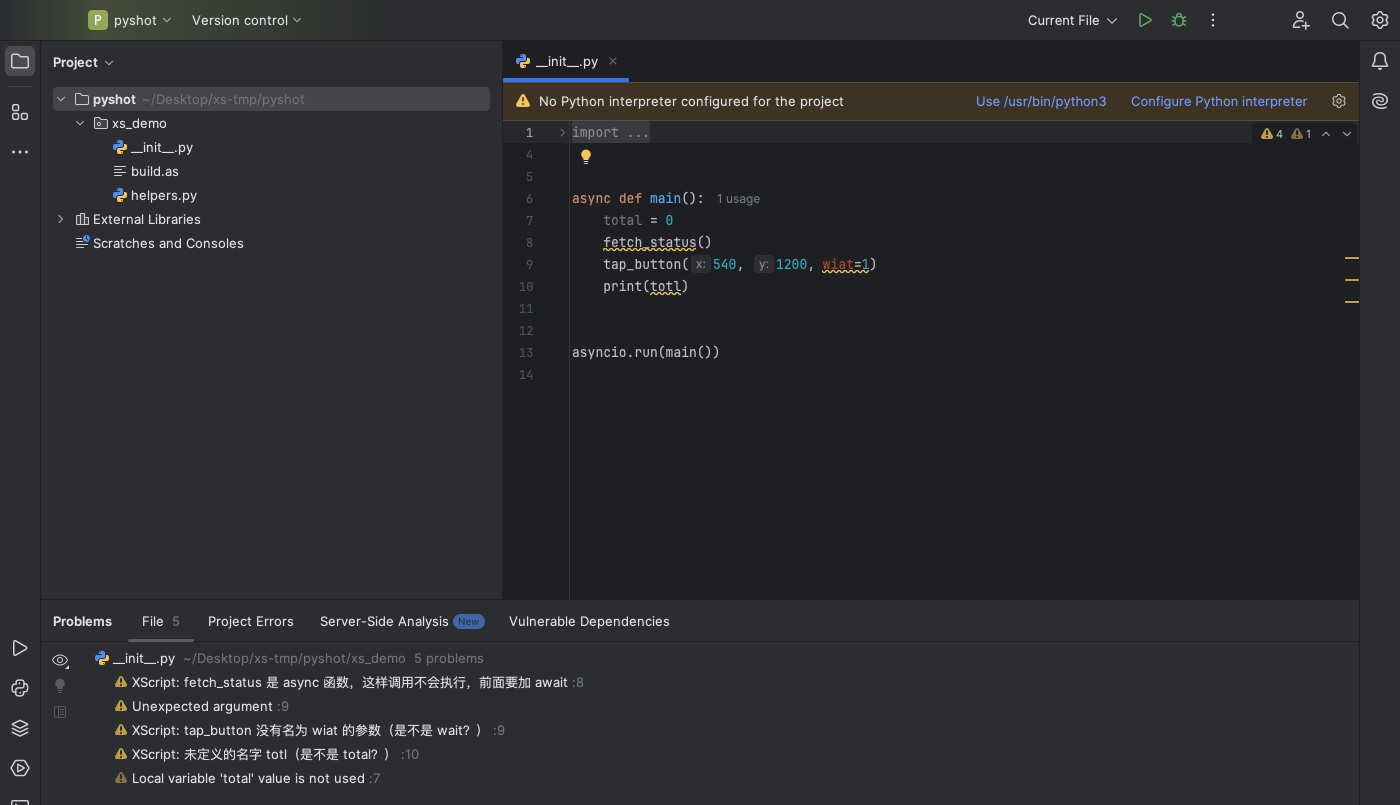
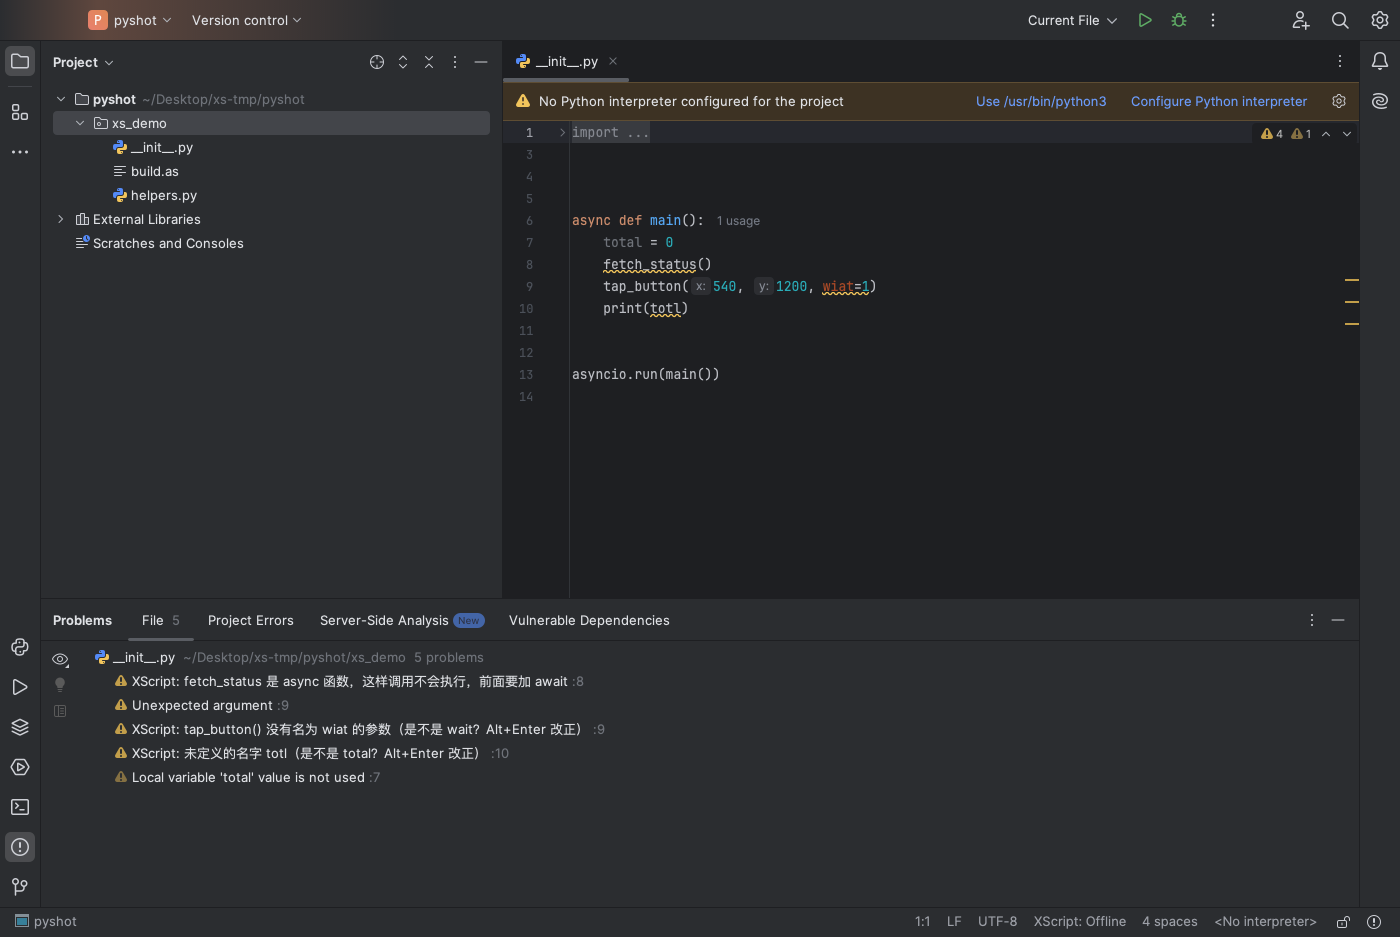
docs(pycharm): document quick fixes and add the lintfix screenshot

diff --git a/ide/pycharm-plugin/src/main/kotlin/com/xscript/pycharm/ScreenshotDemoActivity.kt b/ide/pycharm-plugin/src/main/kotlin/com/xscript/pycharm/ScreenshotDemoActivity.kt
@@ -19,7 +19,8 @@ import java.util.concurrent.TimeUnit
  * never in a normal IDE) it opens the first XScript project's __init__.py and runs Upload and Run (`run`), or opens
  * Settings | Tools | XScript (`settings`), selects the first `_result` line and runs Run Selection on Device (`eval`), or starts
  * Pull Project from Device (`pull`), or runs a device project and opens the Device Projects tab (`projects`), or opens Connect to Device and checks
- * -Dxscript.screenshotConnect (`connect`, `capture`), or just opens __init__.py with the basic checks' warnings (`lint`), so screenshots need no scripted mouse clicks. Does nothing otherwise.
+ * -Dxscript.screenshotConnect (`connect`, `capture`), or just opens __init__.py with the basic checks' warnings (`lint`), or also puts the caret on the first `totl` and opens
+ * Alt+Enter (`lintfix`), so screenshots need no scripted mouse clicks. Does nothing otherwise.
  */
 class ScreenshotDemoActivity : ProjectActivity {
     override suspend fun execute(project: Project) {
@@ -95,10 +96,21 @@ class ScreenshotDemoActivity : ProjectActivity {
                         }, 3, TimeUnit.SECONDS)
                     }
                 }
-                if (mode == "lint") ToolWindowManager.getInstance(project).getToolWindow("Problems View")?.show()
+                if (mode == "lint" || mode == "lintfix") ToolWindowManager.getInstance(project).getToolWindow("Problems View")?.show()
                 if (mode == "run" || mode == "eval") ToolWindowManager.getInstance(project).getToolWindow(XScriptService.TOOL_WINDOW_ID)?.show()
             }, project.disposed)
         }, 12, TimeUnit.SECONDS)
+        // lintfix: the caret on the first misspelled `totl`, then Alt+Enter (the checks have run by now)
+        if (mode == "lintfix") AppExecutorUtil.getAppScheduledExecutorService().schedule({
+            app.invokeLater({
+                val editor = FileEditorManager.getInstance(project).selectedTextEditor ?: return@invokeLater
+                val at = editor.document.text.indexOf("totl")
+                if (at < 0) return@invokeLater
+                editor.caretModel.moveToOffset(at + 1)
+                val psi = com.intellij.psi.PsiDocumentManager.getInstance(project).getPsiFile(editor.document) ?: return@invokeLater
+                com.intellij.codeInsight.intention.impl.ShowIntentionActionsHandler().invoke(project, editor, psi)
+            }, project.disposed)
+        }, 36, TimeUnit.SECONDS)
         // pull: press the project picker's default button so the flow runs to the end (the folder matches the picked name)
         if (mode == "pull") AppExecutorUtil.getAppScheduledExecutorService().schedule({
             app.invokeLater({ shoot(project, "picker"); pressDefaultButton() }, com.intellij.openapi.application.ModalityState.any())
@@ -124,7 +136,7 @@ class ScreenshotDemoActivity : ProjectActivity {
             AppExecutorUtil.getAppScheduledExecutorService().schedule({
                 app.invokeLater({ shoot(project, mode) }, com.intellij.openapi.application.ModalityState.any())
             }, 2, TimeUnit.SECONDS)
-        }, 22, TimeUnit.SECONDS)
+        }, if (mode == "lintfix") 36 else 22, TimeUnit.SECONDS)
     }
 
     /** With -Dxscript.screenshotOut=<dir>: paints the frontmost IDE window (a dialog if one is open) into <dir>/<name>.png. */
@@ -137,6 +149,14 @@ class ScreenshotDemoActivity : ProjectActivity {
         val g = img.createGraphics()
         g.scale(scale, scale)
         window.printAll(g)
+        // popups (the Alt+Enter list) are separate heavyweight windows on top of the frame: paint them in place too
+        for (w in java.awt.Window.getWindows()) {
+            if (w === window || !w.isShowing || w is java.awt.Dialog || w is java.awt.Frame) continue
+            val at = javax.swing.SwingUtilities.convertPoint(w, 0, 0, window)
+            val pg = g.create(at.x, at.y, w.width, w.height)
+            w.printAll(pg)
+            pg.dispose()
+        }
         g.dispose()
         Files.createDirectories(dir)
         javax.imageio.ImageIO.write(img, "png", dir.resolve("$name.png").toFile())
@@ -149,6 +169,6 @@ class ScreenshotDemoActivity : ProjectActivity {
 
     companion object {
         fun mode(): String? = System.getProperty("xscript.screenshotDemo")?.takeIf { it in MODES }
-        private val MODES = setOf("run", "settings", "eval", "pull", "projects", "connect", "capture", "lint")
+        private val MODES = setOf("run", "settings", "eval", "pull", "projects", "connect", "capture", "lint", "lintfix")
     }
 }

diff --git a/ide/pycharm-plugin/README.md b/ide/pycharm-plugin/README.md
@@ -10,7 +10,9 @@
 
 ![Settings → Tools → XScript：设备地址、配对码、运行选中代码超时、「上传时同步删除」和「编辑器里的基本检查」](../../docs/images/pycharm-settings.png)
 
-![基本检查：问题面板里以 XScript: 开头的警告，在 async 函数里直接调用 async 函数、关键字参数 wiat（是不是 wait？）、拼错的 totl（是不是 total？）](../../docs/images/pycharm-checks.png)
+![基本检查：问题面板里以 XScript: 开头的警告，在 async 函数里直接调用 async 函数、关键字参数 wiat（是不是 wait？）、拼错的 totl（是不是 total？Alt+Enter 改正）](../../docs/images/pycharm-checks.png)
+
+![快速修复：光标在 totl 上按 Alt+Enter，第一项是「改为 total」](../../docs/images/pycharm-quickfix.png)
 
 ![选中一行按 Ctrl+Alt+Shift+E：代码和设备返回的结果显示在 XScript 工具窗口](../../docs/images/pycharm-eval.png)
 
@@ -64,7 +66,7 @@ cd ide/pycharm-plugin
 - **预览上传**：Tools → XScript → Preview Upload (Dry Run)，不改动手机，只在 XScript 工具窗口里列出「上传并运行」会新增、重新发送、跳过和删除的文件。有需要上传或删除的内容时，右下角通知里有 **上传并运行** 按钮，直接执行同一次增量上传（删除仍会先弹确认框）。
 - **工程**：当前文件之上、含有 `__init__.py` 或 `build.as` 的最顶层文件夹；文件夹名就是手机上的工程名。上传时跳过隐藏文件、`__pycache__`、`.pyc`、虚拟环境，并遵守 `.vscode/.syncignore`（与 VS Code 扩展同一个文件）。设备上有、本地已删除的文件默认保留；在设置里勾选「上传时同步删除本地已删除的文件」后，每次上传会先列出这些文件，确认后才在设备上删除（被 `.syncignore` 忽略的文件、点开头的文件、`__pycache__` 和工程入口 `__init__.py` 永远不删；删除后变空的文件夹连同其中的 `__pycache__` 一起删除，也在同一个对话框里列出；同 VS Code 的 `xscript.syncDeletes`）。
 - **配对码**：手机默认需要配对码（XScript 首页「开发与连接 → 配对码」）。第一次遇到 401 时插件会弹窗询问，保存在 IDE 的密码库（macOS 钥匙串等），也可以在设置页填写。按设备地址分别保存。
-- **基本检查**：XScript 工程里的 `.py` 文件，用和网页 IDE、VS Code 扩展同一套规则检查（未定义的名字及「是不是 …」、属性不存在、调用参数不对、import 拼错、async / await 用错、重复定义），以 `XScript:` 开头的警告画在编辑器里并列在问题面板。PyCharm 自己已经会把未使用的 import / 变量和执行不到的代码变灰，这几类不重复报；有的问题（例如多余的参数）PyCharm 也会报一条，XScript 的那条多了「是不是 …」提示。规则在 IDE 自带的浏览器（JCEF）里运行，没有 JCEF 时（例如部分远程开发环境）不检查。不想要时在 **Settings → Tools → XScript** 取消「编辑器里的基本检查」。
+- **基本检查**：XScript 工程里的 `.py` 文件，用和网页 IDE、VS Code 扩展同一套规则检查（未定义的名字及「是不是 …」、属性不存在、调用参数不对、import 拼错、async / await 用错、重复定义），以 `XScript:` 开头的警告画在编辑器里并列在问题面板。PyCharm 自己已经会把未使用的 import / 变量和执行不到的代码变灰，这几类不重复报；有的问题（例如多余的参数）PyCharm 也会报一条，XScript 的那条多了「是不是 …」提示。提示里写「Alt+Enter …」的可以按 Alt+Enter 一键修复：改为「是不是 …」的名字、从工程里的模块补 import、补上缺少的参数、跳到被覆盖的重复定义。规则在 IDE 自带的浏览器（JCEF）里运行，没有 JCEF 时（例如部分远程开发环境）不检查。不想要时在 **Settings → Tools → XScript** 取消「编辑器里的基本检查」。
 - **补全**：打开像 XScript 工程的项目时，插件会提示「启用 XScript 补全」。它只是把插件目录里的 `stubs/`（由 `scripts/gen_stubs.py` 生成，与 VS Code 扩展内置的是同一份）加为模块库，不往工程里复制任何文件；关闭时移除这个库。
 
 ## 开发
@@ -77,5 +79,5 @@ cd ide/pycharm-plugin
 ```
 
 - 新建工程模板 `src/main/resources/templates.json` 是生成的：改 `ide/vscode-extension/src/newProject.ts` 后，在 `ide/vscode-extension` 里 `npm run compile && node scripts/export-templates.js`。CI 用 `--check` 检查。
-- 截图：先在 `.intellijPlatform/sandbox/xscript-pycharm/PC-2024.2.6/config_runIde/options/xscript.xml` 里把设备地址设为本机 mock 设备，再 `./gradlew runIde -PrunIdeProject=<演示工程> -PrunIdeHeadlessConsent -PrunIdeScreenshotDemo=run -PrunIdeScreenshotOut=<目录>`（模式还有 `settings`、`eval`、`pull`、`projects`、`connect`、`lint`（只打开 `__init__.py` 和问题面板，看基本检查；演示工程里要有写错的代码）；`connect` 用 `-PrunIdeScreenshotConnect=<地址>` 指定要检查的地址）。这些开关只用于这个一次性的沙盒：跳过用户协议，打开演示工程，执行对应功能（`pull` 会自动按下选择和覆盖对话框的默认按钮；演示工程里要有与设备工程同名的文件夹），约 25 秒后把 IDE 窗口（有对话框时截对话框）存成 `<目录>/<模式>.png`，不需要系统录屏权限。
+- 截图：先在 `.intellijPlatform/sandbox/xscript-pycharm/PC-2024.2.6/config_runIde/options/xscript.xml` 里把设备地址设为本机 mock 设备，再 `./gradlew runIde -PrunIdeProject=<演示工程> -PrunIdeHeadlessConsent -PrunIdeScreenshotDemo=run -PrunIdeScreenshotOut=<目录>`（模式还有 `settings`、`eval`、`pull`、`projects`、`connect`、`lint`（只打开 `__init__.py` 和问题面板，看基本检查；演示工程里要有写错的代码）、`lintfix`（同上，再把光标放到第一个 `totl` 上打开 Alt+Enter 列表，约 40 秒后截图）；`connect` 用 `-PrunIdeScreenshotConnect=<地址>` 指定要检查的地址）。这些开关只用于这个一次性的沙盒：跳过用户协议，打开演示工程，执行对应功能（`pull` 会自动按下选择和覆盖对话框的默认按钮；演示工程里要有与设备工程同名的文件夹），约 25 秒后把 IDE 窗口（有对话框时截对话框）存成 `<目录>/<模式>.png`，不需要系统录屏权限。
 - 本机没有系统 JDK 时可以用 Android Studio 自带的：`JAVA_HOME="/Applications/Android Studio.app/Contents/jbr/Contents/Home"`。

diff --git a/docs/使用手册.md b/docs/使用手册.md
@@ -234,9 +234,11 @@ code --install-extension xscript-vscode-<版本>.vsix   # Cursor 用 cursor --in
 
 习惯 PyCharm（2024.2 及以上）时用插件：从 GitHub Release 下载 `xscript-pycharm-<版本>.zip`，**Settings → Plugins → ⚙ → Install Plugin from Disk…** 安装。菜单 **Tools → XScript** 里有上传并运行（Ctrl+Alt+Shift+R）、停止、运行选中代码（Ctrl+Alt+Shift+E）、从设备拉取工程、连接设备、新建工程和补全存根；底部 **XScript** 工具窗口显示日志和手机上的工程。用法详见 `ide/pycharm-plugin/README.md`。
 
-- **基本检查**：XScript 工程里的 `.py` 文件，用和网页 IDE、VS Code 扩展同一套规则检查（未定义的名字及「是不是 …」、属性或方法不存在、调用参数不对、import 拼错、async / await 用错、重复定义），以 `XScript:` 开头的**警告**画在编辑器里，也列在 **Problems** 面板。没保存的修改也参与检查。未使用的 import / 变量和执行不到的代码 PyCharm 自己会变灰，这几类不重复报；有的问题（例如多余的参数）PyCharm 也会报一条，XScript 的那条多了「是不是 …」。检查在 IDE 自带的浏览器（JCEF）里运行，没有 JCEF 时（例如部分远程开发环境）不检查。不想要时在 **Settings → Tools → XScript** 取消「编辑器里的基本检查」。
+- **基本检查**：XScript 工程里的 `.py` 文件，用和网页 IDE、VS Code 扩展同一套规则检查（未定义的名字及「是不是 …」、属性或方法不存在、调用参数不对、import 拼错、async / await 用错、重复定义），以 `XScript:` 开头的**警告**画在编辑器里，也列在 **Problems** 面板。没保存的修改也参与检查。未使用的 import / 变量和执行不到的代码 PyCharm 自己会变灰，这几类不重复报；有的问题（例如多余的参数）PyCharm 也会报一条，XScript 的那条多了「是不是 …」。提示里写「Alt+Enter …」的可以一键修复：光标放在波浪线上按 **Alt+Enter**（Mac 上 **⌥⏎**）或点灯泡，「是不是 …」（拼错的名字、属性、import、关键字参数名，以及确定无误的类型转换）选 **改为 …**；没定义、但工程里别的模块有的名字选 **从 模块 导入 名字**（加在文件开头的文档字符串和 import 之后）；缺少参数选 **补上参数 …**；重复定义选 **跳到第 N 行的定义**。改动可以撤销（⌘Z / Ctrl+Z）。检查在 IDE 自带的浏览器（JCEF）里运行，没有 JCEF 时（例如部分远程开发环境）不检查。不想要时在 **Settings → Tools → XScript** 取消「编辑器里的基本检查」。
 
-  ![PyCharm 的 Problems 面板：以 XScript: 开头的三条警告，async 函数没有 await、关键字参数 wiat（是不是 wait？）、拼错的 totl（是不是 total？）](images/pycharm-checks.png)
+  ![PyCharm 的 Problems 面板：以 XScript: 开头的三条警告，async 函数没有 await、关键字参数 wiat（是不是 wait？）、拼错的 totl（是不是 total？Alt+Enter 改正）](images/pycharm-checks.png)
+
+  ![PyCharm 里光标在 totl 上按 Alt+Enter：第一项是「改为 total」](images/pycharm-quickfix.png)
 
 ---
 
